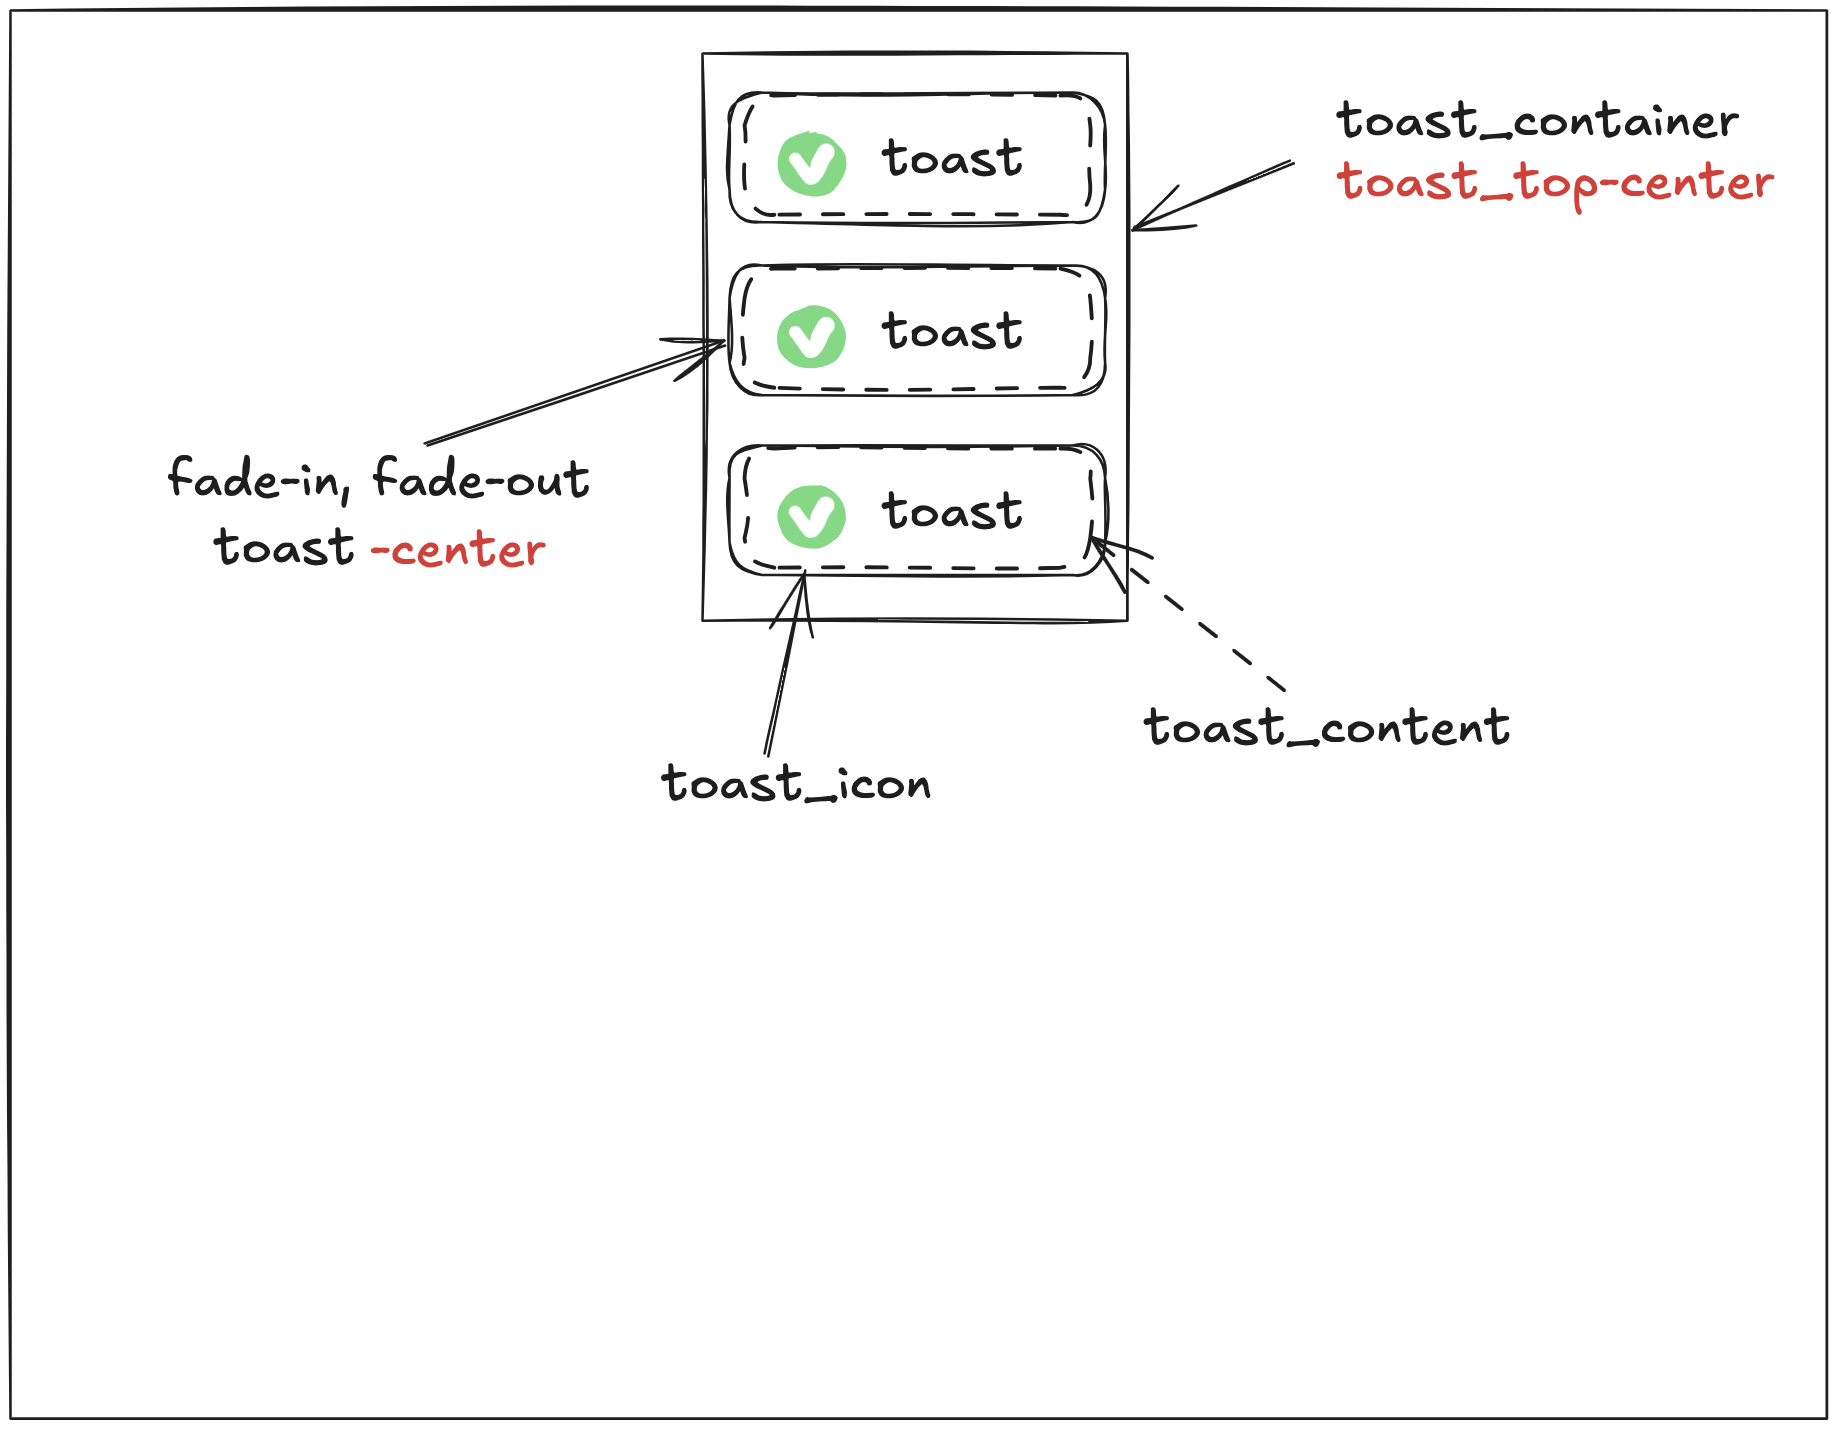
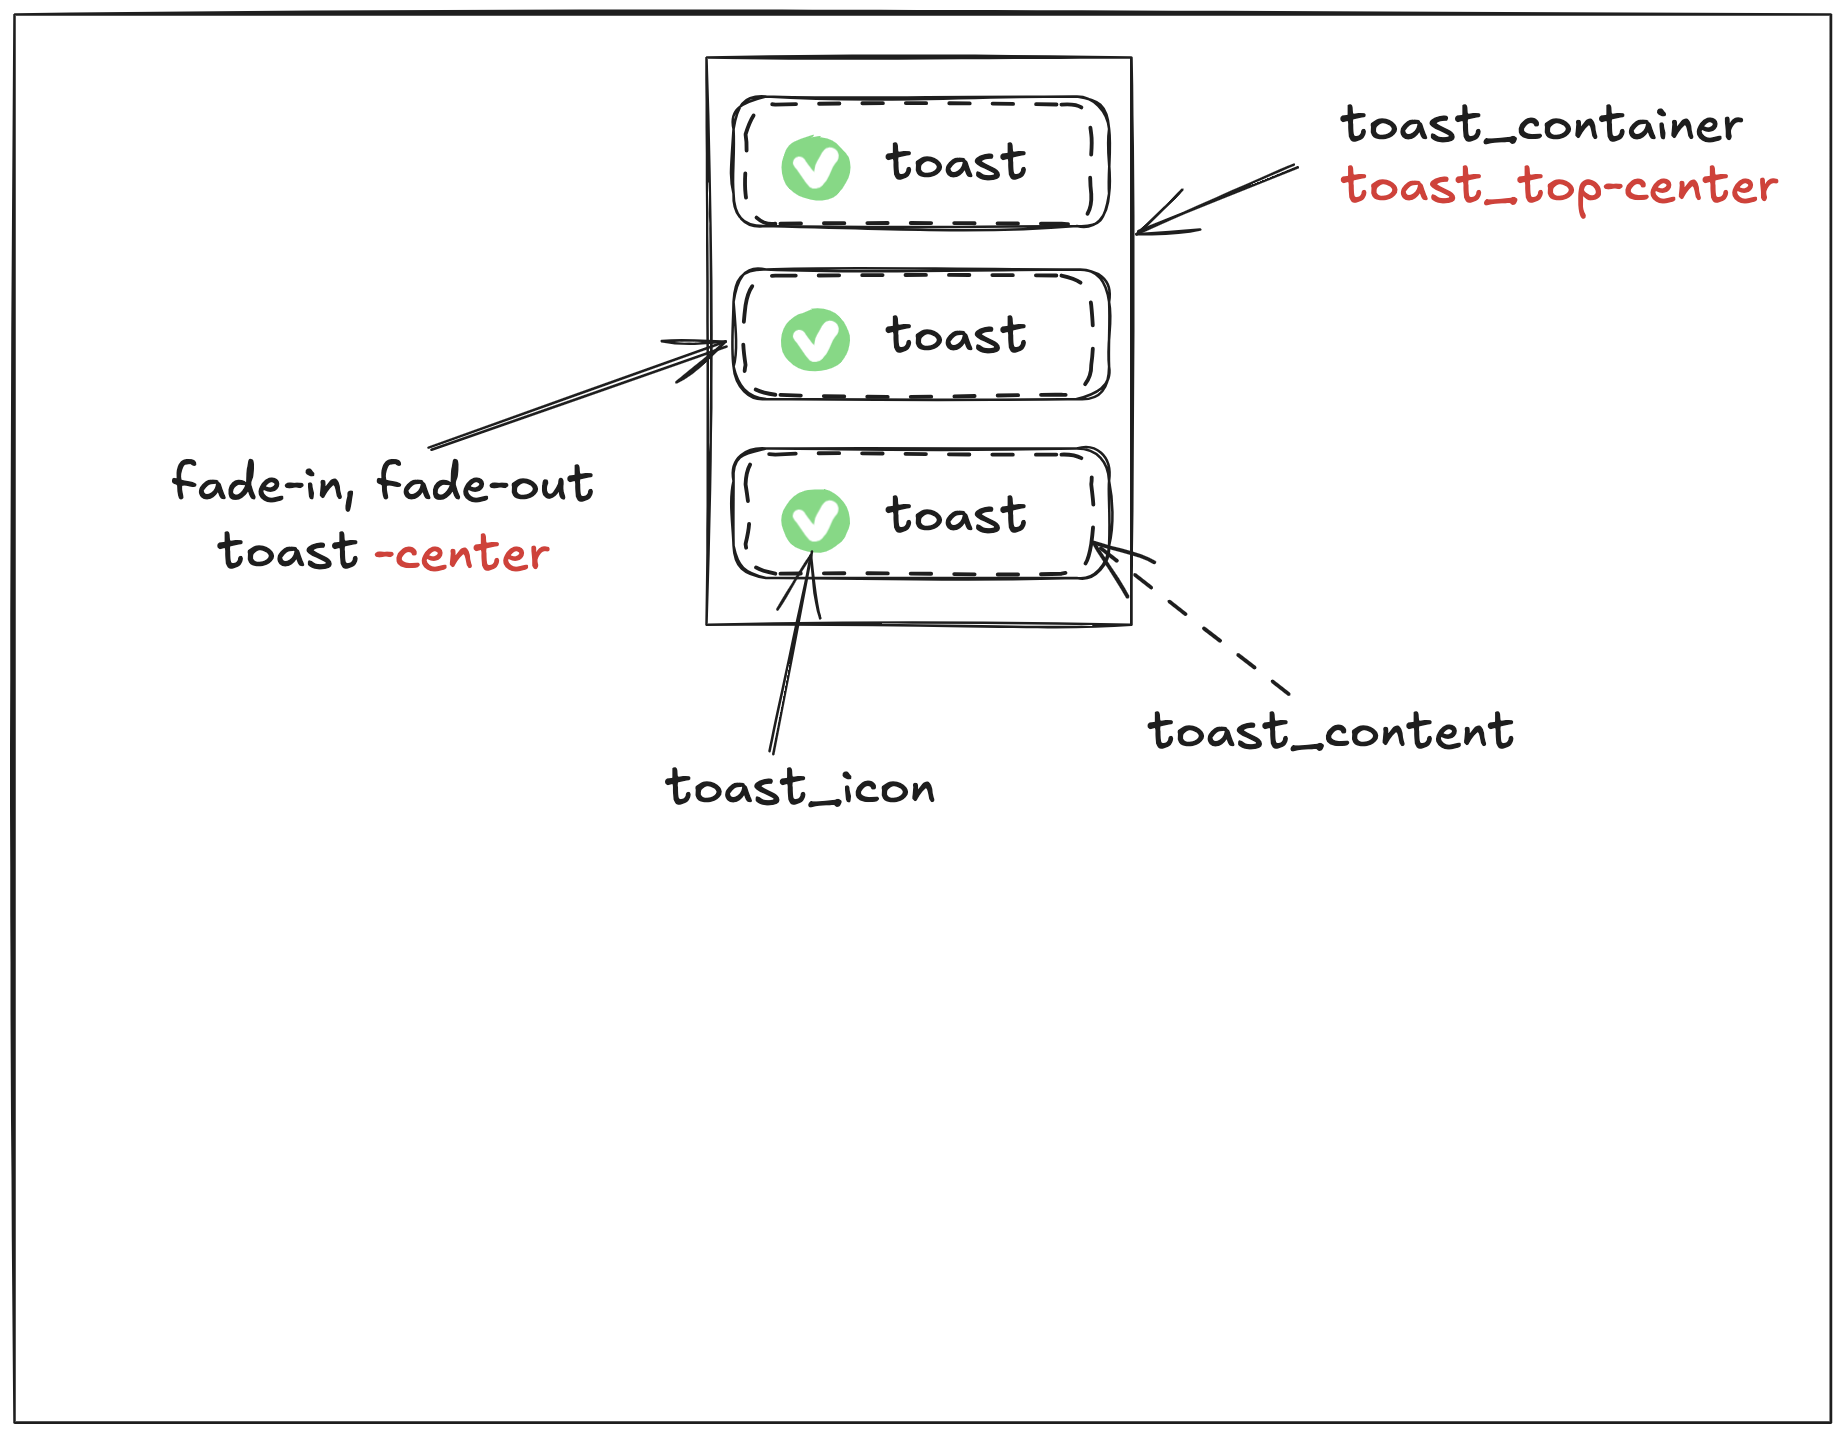
chore: remove unnecessary test

diff --git a/test/toast.test.tsx b/test/toast.test.tsx
@@ -83,28 +83,6 @@ describe('toast', () => {
     expect(queryAllByText(new RegExp(context.task.id, 'i'))).toHaveLength(4);
   });
 
-  test('should have no style and no animation if data is function.', async (context) => {
-    function App() {
-      const click = () => {
-        toast(() => <div>{context.task.id}</div>);
-      };
-
-      return (
-        <React.Fragment>
-          <ToastContainer />
-          <button onClick={click}>click</button>
-        </React.Fragment>
-      );
-    }
-
-    const { getByRole, queryByText } = render(<App />);
-
-    fireEvent.click(getByRole('button', { name: 'click' }));
-
-    // @ts-ignore
-    expect(queryByText(new RegExp(context.task.id, 'i'))?.style._values).empty;
-  });
-
   test('should display toasts in each toast container.', async (context) => {
     function App() {
       const click = () => {

diff --git a/docs/src/app/docs/styling/page.tsx b/docs/src/app/docs/styling/page.tsx
@@ -32,7 +32,7 @@ export default function DocsHeadlessHook() {
       <p>
         This is the CSS file used for the react-strawberry-toast. <br />
         <Link href="https://github.com/dkpark10/react-strawberry-toast/blob/master/src/styles/style.scss">
-          here is <b className="text-straw-berry">CSS file link</b>
+          Here is <b className="text-straw-berry">CSS file link</b>
         </Link>
       </p>
 
@@ -200,7 +200,7 @@ $offset: 16px;
       </p>
 
       <AssetImage
-        className="relative left-[-1px]"
+        className="relative left-[-4px]"
         src="/toast-structure.png"
         alt="toast-structure"
         width={1748}
